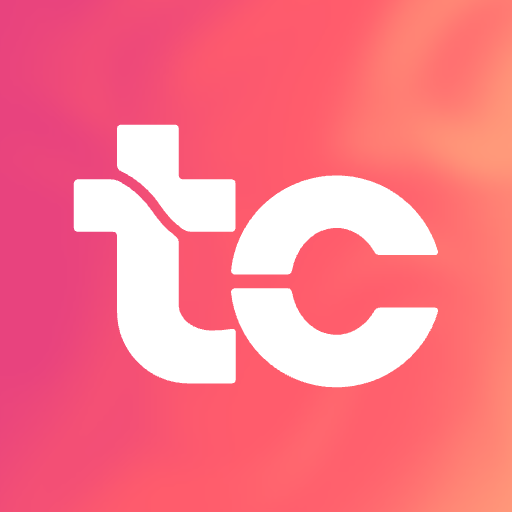
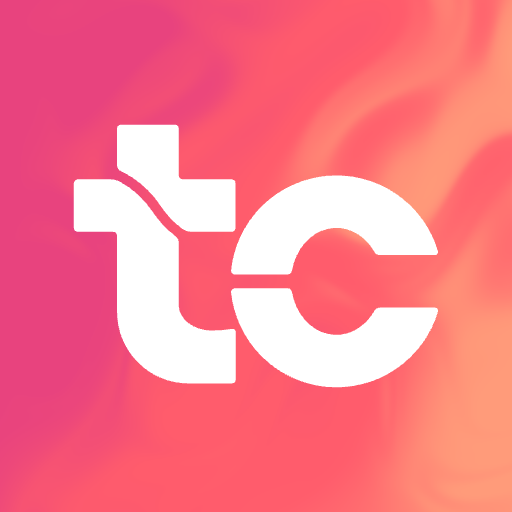
The fold is 1.7, and nothing else moves off the hero
The sweep Taylor judged was a pure scale ladder: every other value at the
shader's own, no blur. The set was then built at the chosen number but with
warp halved to 0.12 and a 12px blur added on top, which is not the picture he
approved and is why it read as flat. Only scale is passed now, at 1.7 against
the hero's 4.7 - the middle of the range he settled on, leaning up.

The recipe sheet is that ladder, 1.6 through 2.0 with 1.4 kept for reference,
drawn as the artwork's rounded tile so it compares like for like against the
sweep. The files that ship are still square; iOS and Android round them.

diff --git a/scripts/brand/tripcerto-identity-v3.html b/scripts/brand/tripcerto-identity-v3.html
@@ -162,7 +162,7 @@ talks to a traveller or a consultant, so her register is her own.</p>
 
 <section>
 <h2>6 · Icons and social</h2>
-<table><tbody><tr><td class="k">favicon.svg</td><td>The app icon in coral. The one every modern browser reads.</td></tr><tr><td class="k">favicon.ico</td><td>48, 32 and 16px, for browsers that still ask.</td></tr><tr><td class="k">apple-touch-icon.png</td><td>180px, full-bleed square. Deliberately not pre-rounded: iOS rounds it.</td></tr><tr><td class="k">icon-192 / icon-512</td><td>Full-bleed square, the tight crop, for contexts that do not mask.</td></tr><tr><td class="k">icon-maskable-192 / -512</td><td>A different drawing, not a smaller one: no tile shape, the ground to all four edges and the mark at 56%, so it survives Android cropping a manifest icon to a circle of 80%. The tight icon does not: its corners sit 241px out against a 205px safe radius.</td></tr><tr><td class="k">mask-icon.svg</td><td>The monogram alone, one colour, no ground, for a pinned Safari tab.</td></tr><tr><td class="k">The ground under the mark</td><td>The rasters carry the band warped by the site's own shader, at a fixed seed and one fold across the tile. <code class="w">favicon.svg</code> stays a flat <code class="w">#FF5C6C</code>: a vector favicon carrying a raster of a shader is large and pointless at 16px.</td></tr><tr><td class="k">og-image.png</td><td>The social card, 1200 × 630. One per page.</td></tr></tbody></table>
+<table><tbody><tr><td class="k">favicon.svg</td><td>The app icon in coral. The one every modern browser reads.</td></tr><tr><td class="k">favicon.ico</td><td>48, 32 and 16px, for browsers that still ask.</td></tr><tr><td class="k">apple-touch-icon.png</td><td>180px, full-bleed square. Deliberately not pre-rounded: iOS rounds it.</td></tr><tr><td class="k">icon-192 / icon-512</td><td>Full-bleed square, the tight crop, for contexts that do not mask.</td></tr><tr><td class="k">icon-maskable-192 / -512</td><td>A different drawing, not a smaller one: no tile shape, the ground to all four edges and the mark at 56%, so it survives Android cropping a manifest icon to a circle of 80%. The tight icon does not: its corners sit 241px out against a 205px safe radius.</td></tr><tr><td class="k">mask-icon.svg</td><td>The monogram alone, one colour, no ground, for a pinned Safari tab.</td></tr><tr><td class="k">The ground under the mark</td><td>The rasters carry the band warped by the site's own shader, at a fixed seed, at a fold size of 1.7 against the hero's 4.7. <code class="w">favicon.svg</code> stays a flat <code class="w">#FF5C6C</code>: a vector favicon carrying a raster of a shader is large and pointless at 16px.</td></tr><tr><td class="k">og-image.png</td><td>The social card, 1200 × 630. One per page.</td></tr></tbody></table>
 </section>
 
 <section>
